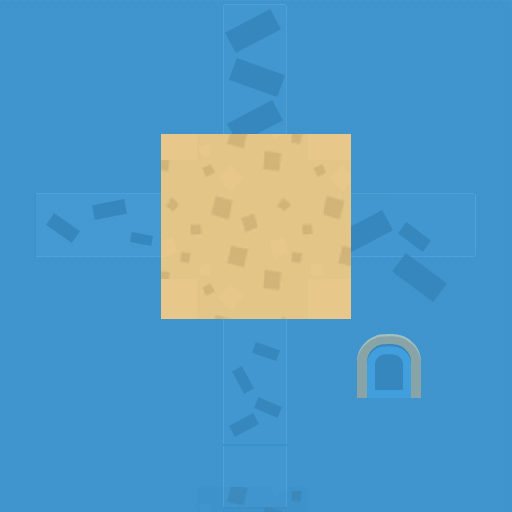
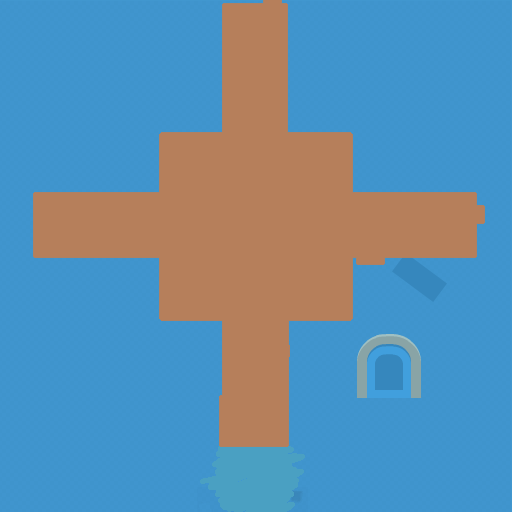
Add files via upload

Changed region(s): [[0.0625, 0.0, 0.9688, 0.875]]

diff --git a/main.py b/main.py
@@ -62,7 +62,7 @@ class Voxel(Button):
             model='assets/block_model',
             origin_y=0.5,
             texture=texture,
-            color=color.color(0, 0, random.uniform(0.9, 1.0)),
+            color=color.color(0, 0, 1),
             highlight_color=color.lime,
             scale=0.5
         )
